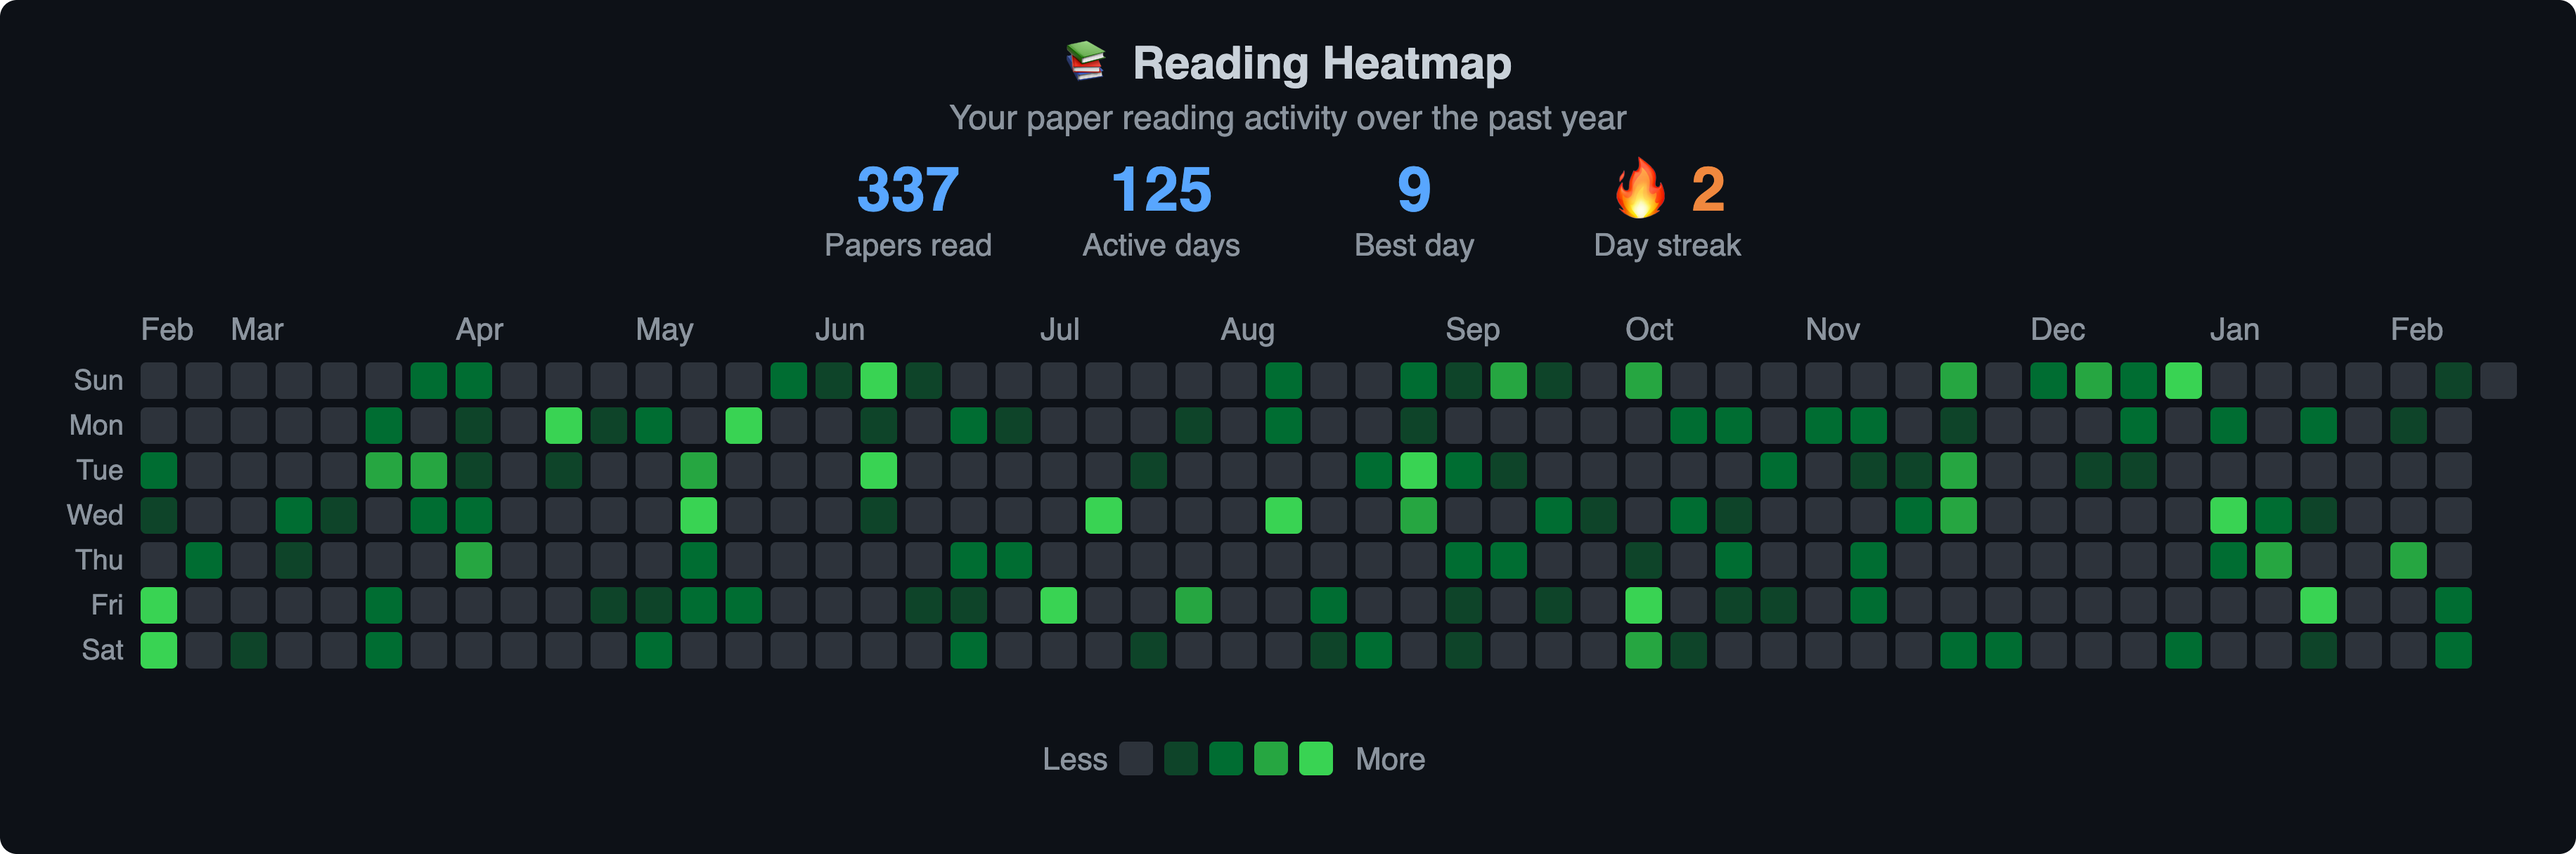
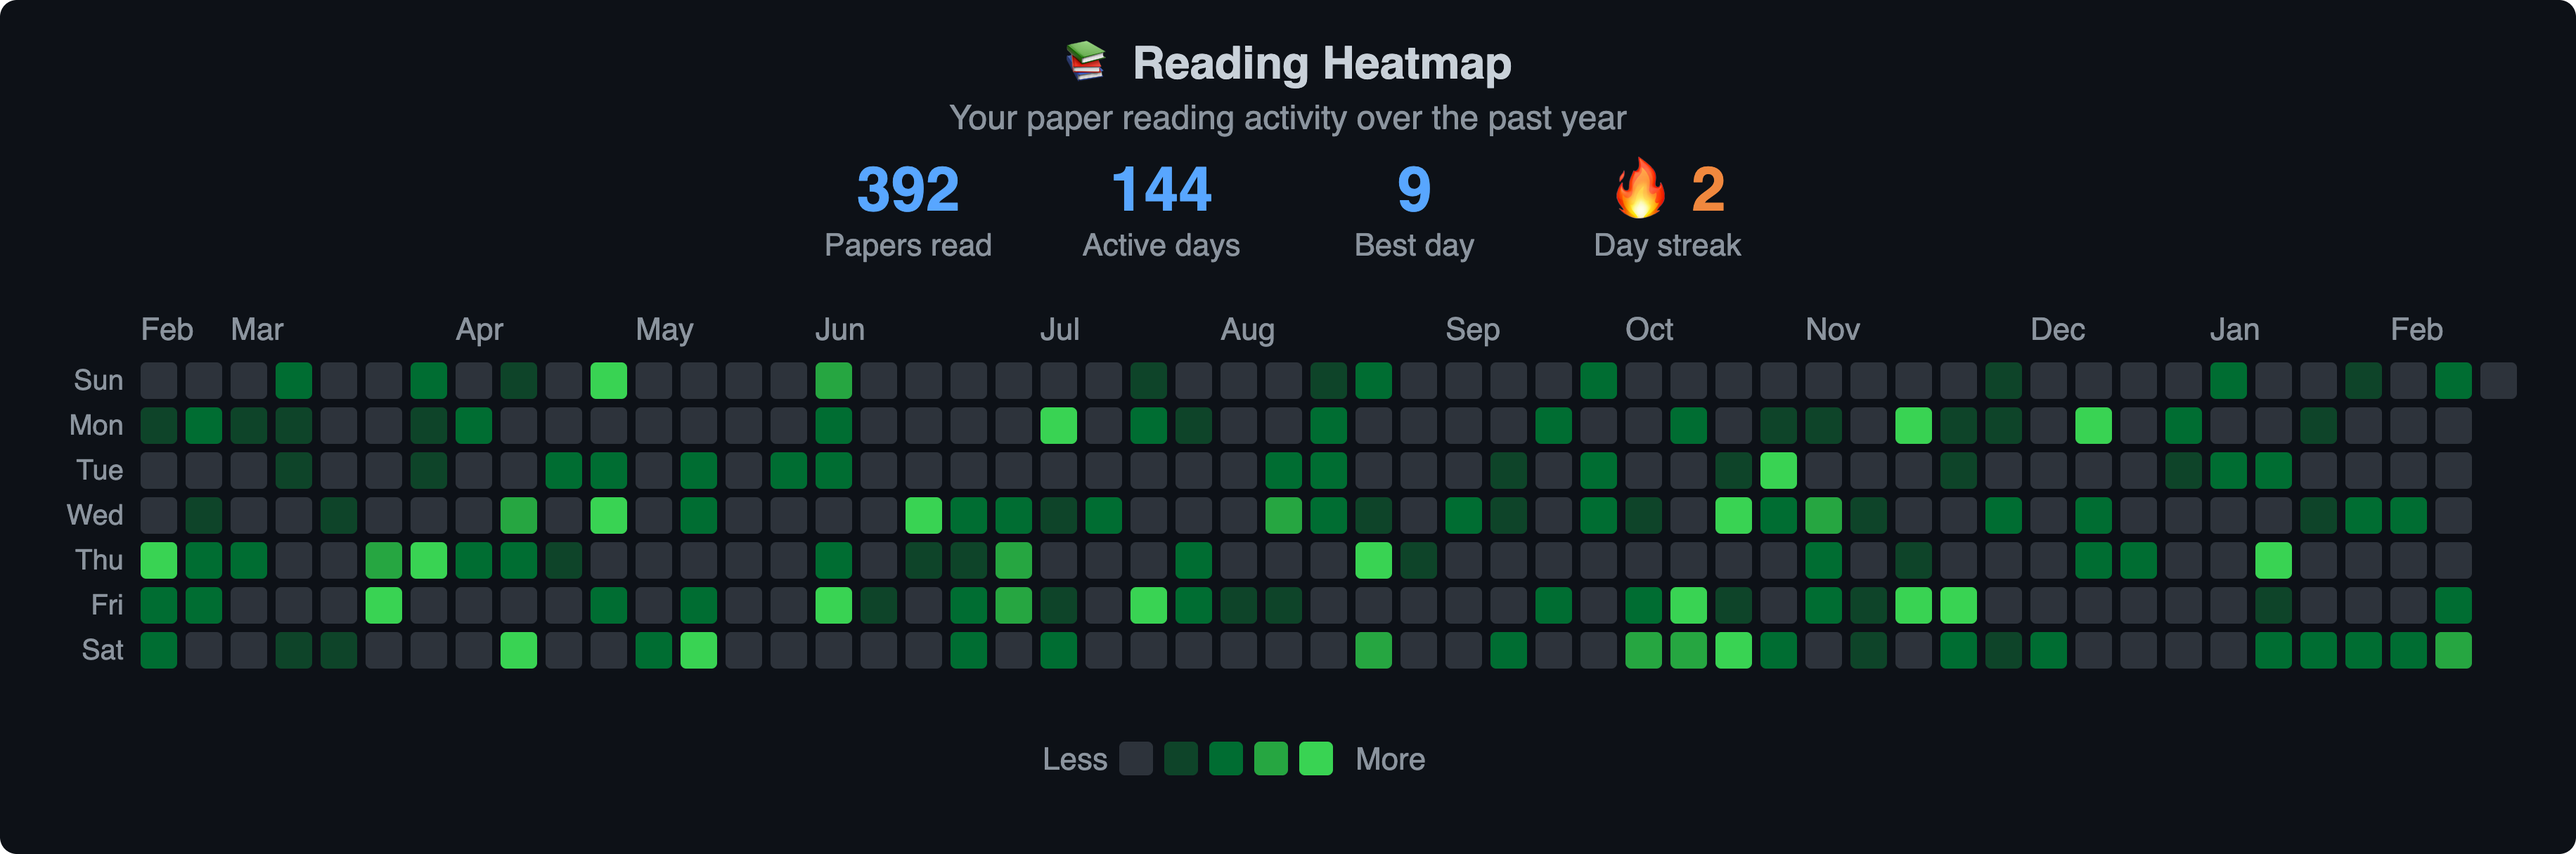
Update README

Changed region(s): [[0.0311, 0.4062, 0.9645, 0.7812], [0.4356, 0.1875, 0.4667, 0.25], [0.3422, 0.1875, 0.3734, 0.25]]

diff --git a/README.md b/README.md
@@ -17,10 +17,10 @@ A Zotero plugin to track your reading activity and visualize it with a GitHub-st
 ## Screenshots
 
 ### Dark Mode
-![Dark Mode Heatmap](assets/example-heatmap-darkmode.html)
+![Dark Mode Heatmap](assets/example-heatmap-darkmode.png)
 
 ### Light Mode
-![Light Mode Heatmap](assets/example-heatmap-lightmode.html)
+![Light Mode Heatmap](assets/example-heatmap-lightmode.png)
 
 ---
 
@@ -50,7 +50,6 @@ zip -r ../ZoteroReadTracker.xpi manifest.json bootstrap.js readTracker.js heatma
 ### Compatibility
 
 - **Zotero 7.0+**
-- Not tested on any other version
 
 ---
 
